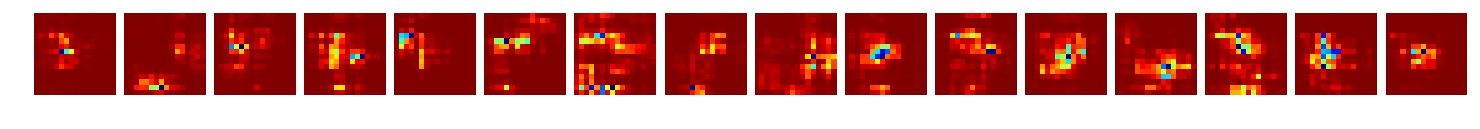
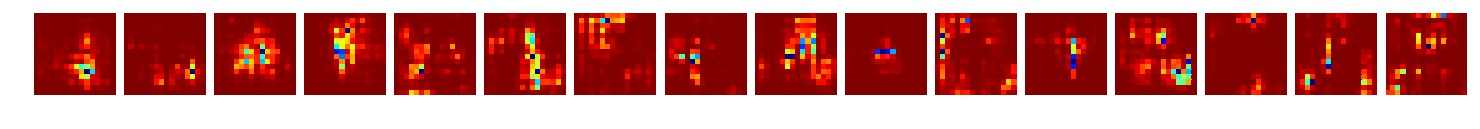
second occ exp

Changed region(s): [[0.0, 0.093, 0.9946, 0.7442]]

diff --git a/multiclass_classification/visualization.py b/multiclass_classification/visualization.py
@@ -31,7 +31,7 @@ from PIL import Image
 
 device = torch.device("cuda:0" if torch.cuda.is_available() else "cpu")
 data_dir = '../data/'
-test_dir = 'segmented_test'
+test_dir = 'normal_test'
 classes = sorted(os.listdir(data_dir + test_dir))
 batch_size = 16
 if os.path.exists(test_dir):
